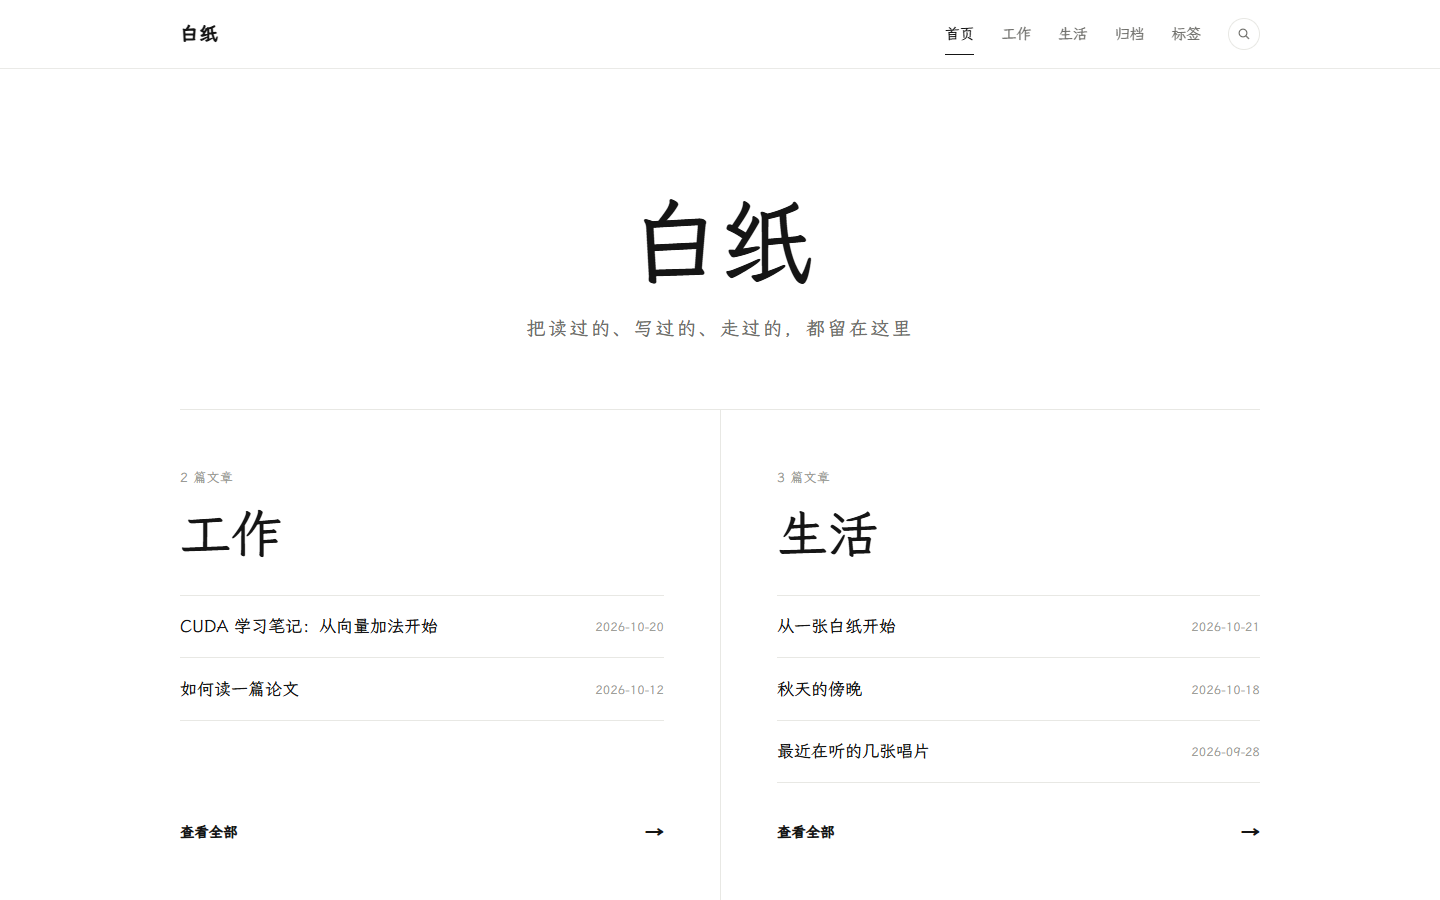
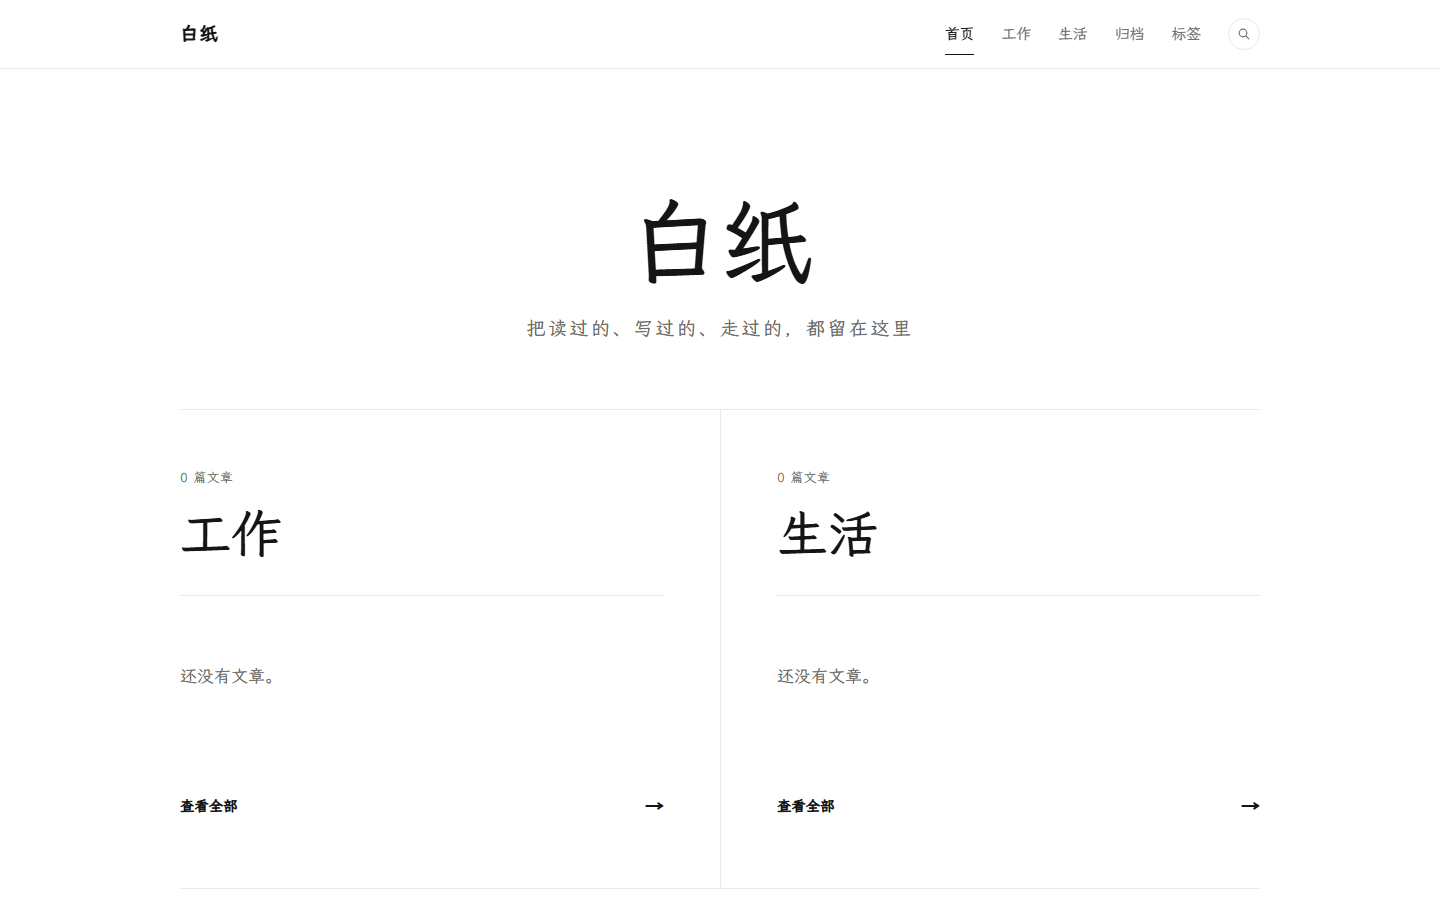
chore: remove sample posts and configure site URL

diff --git a/README.md b/README.md
@@ -6,7 +6,9 @@
 
 ![首页预览](docs/preview.png)
 
-> 想把它变成自己的博客？先 Fork 或使用模板创建仓库，或把代码下载到本地，然后把仓库名改成 `<你的用户名>.github.io`，再按下面的步骤操作。
+> 在线地址：https://kayngodot.github.io
+>
+> 想基于它做自己的博客？Fork 后把仓库名改成 `<你的用户名>.github.io`，再按下面的步骤操作。
 
 ## 特性
 
@@ -28,8 +30,8 @@
 ### 1. 获取代码并安装依赖
 
 ```bash
-git clone https://github.com/你的用户名/你的用户名.github.io.git
-cd 你的用户名.github.io
+git clone https://github.com/kayngodot/kayngodot.github.io.git
+cd kayngodot.github.io
 npm install
 npm run dev
 ```
@@ -43,18 +45,18 @@ npm run dev
 ```js
 title: "白纸",                        // 站点名
 tagline: "把读过的、写过的……",          // 首页副标题
-author: "你的名字",
-email: "you@example.com",
-url: "https://你的用户名.github.io",   // 必须改对
+author: "kayngodot",
+email: "",                             // 留空则关于页不显示邮箱
+url: "https://kayngodot.github.io",   // 必须和实际地址一致
 ```
 
 `url` 会用于 canonical、站点地图和 RSS。没有改的话，部署后这些地址仍然指向 `YOURNAME`。
 
 ### 3. 部署到 GitHub Pages
 
-如果你还没有自己的 GitHub 仓库，新建一个 **Public** 仓库，仓库名必须是 `<你的用户名>.github.io`。例如用户名是 `yourname`，仓库就叫 `yourname.github.io`。如果你已经 Fork 或推送过代码，直接确认下面的 Pages 设置即可。
+本仓库已经对应 `https://kayngodot.github.io`，并开启了 Pages。日常只需要把改动推送到 `main`。
 
-建好后先进入 **Settings → Pages → Build and deployment**，把 **Source** 选成 **GitHub Actions**。然后再推送代码，第一次 Actions 就能正常部署。
+如果你想从 Fork 或模板新建自己的站点，新建一个 **Public** 仓库，仓库名必须是 `<你的用户名>.github.io`。建好后先进入 **Settings → Pages → Build and deployment**，把 **Source** 选成 **GitHub Actions**，然后再推送代码。
 
 如果代码还没有推到远端：
 
@@ -132,8 +134,8 @@ npm run check:links
 
 ```yaml
 ---
-title: 秋天的傍晚
-date: 2026-10-18
+title: 第一篇文章
+date: 2026-01-01
 tags:
   - 随笔
 ---
@@ -175,7 +177,7 @@ tags:
 
 站点的大部分个性化都在 [`blog.config.mjs`](./blog.config.mjs)：
 
-- **站名、副标题、作者、邮箱、导航文案**：文件顶部
+- **站名、副标题、作者、邮箱、导航文案**：文件顶部。`email` 留空时，关于页不会显示邮箱
 - **两个板块的名字和点缀色**：`boards` 数组，`accent` 支持任意十六进制颜色
 - **首页每个板块显示几篇**：`homeLatest`
 - **页脚文案**：`footerNote`
@@ -272,9 +274,15 @@ base: "/blog/",
 
 文章 URL 由文件名决定，改名等于改网址。旧链接会失效，尽量不要改已发布的文件名。
 
-## 关于示例内容
+## 开始写第一篇
 
-`src/content/posts` 里的 5 篇文章是示例，可以直接删除，换成你自己的。删完后首页会显示「还没有文章」。
+`src/content/posts/work` 和 `life` 已经保留为空目录。现在首页会显示「还没有文章」，这是正常的。直接运行：
+
+```bash
+npm run new -- "第一篇文章" --section life
+```
+
+写完用 `npm run dev` 预览，`npm run ship` 发布。完整的 front matter 和图片用法见上面的「文章格式」。
 
 ---
 
